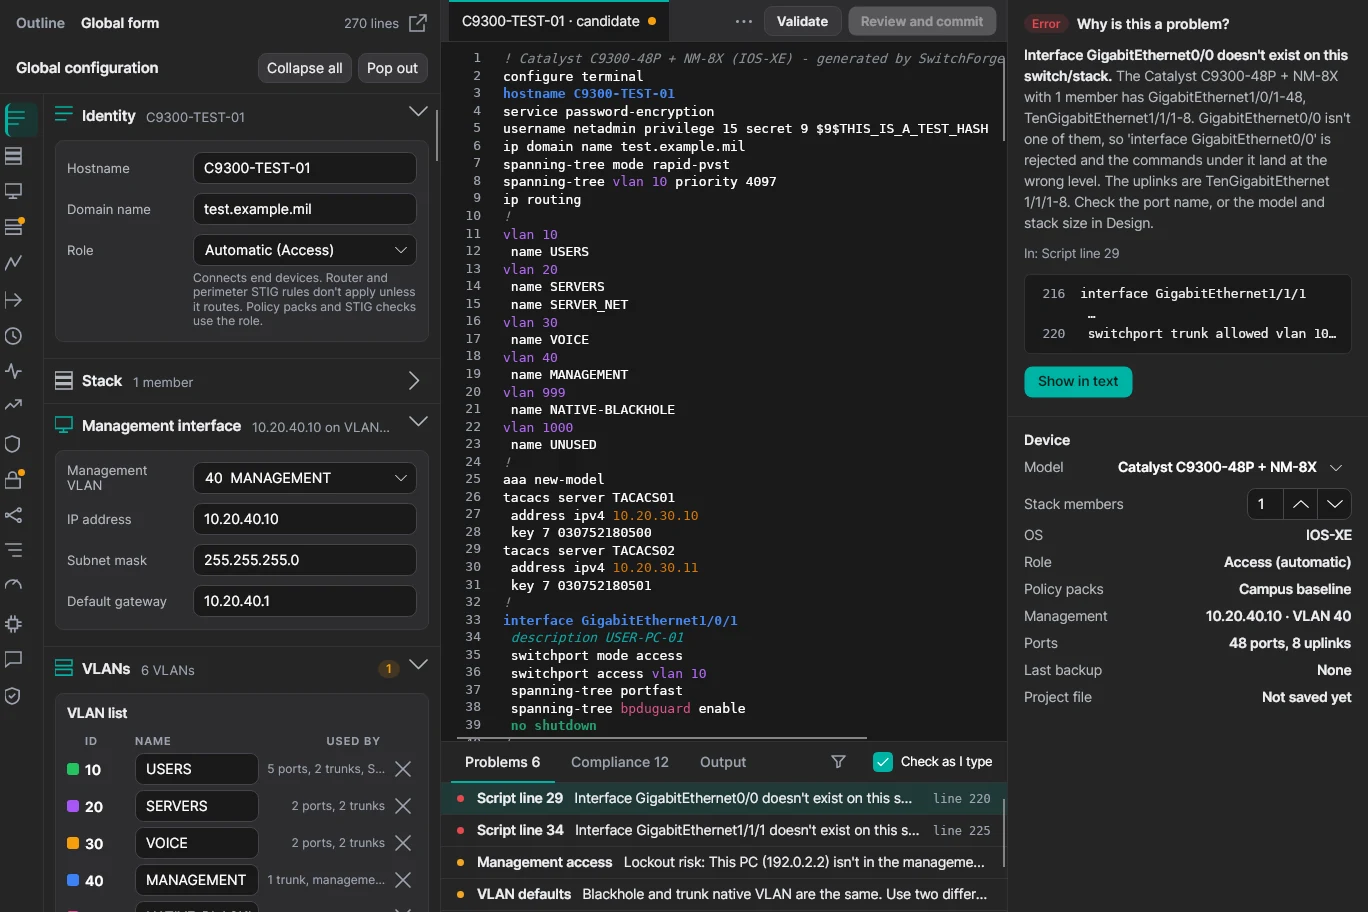
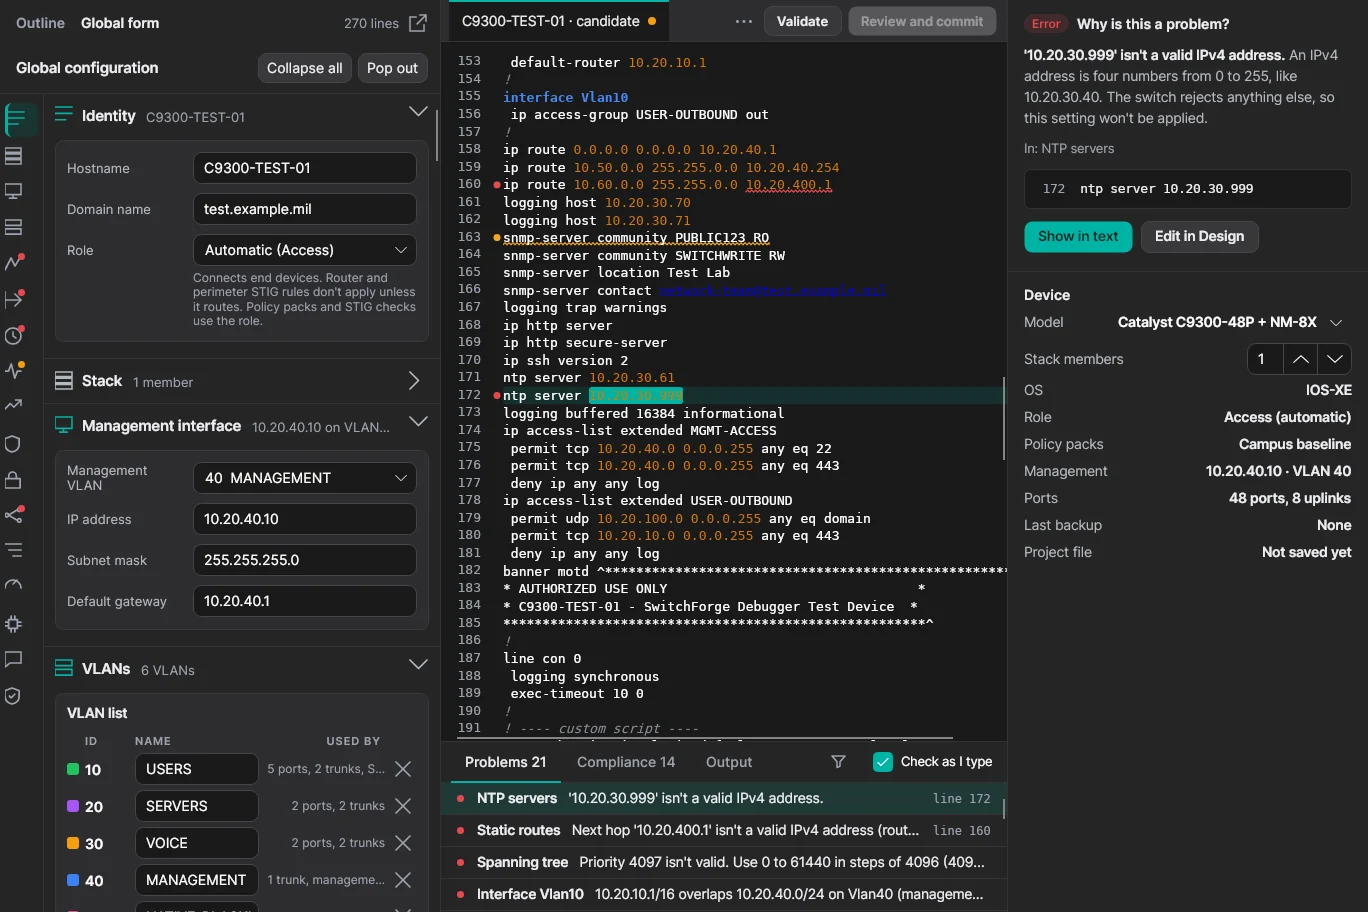
Fix the debugger screenshot and stop browsers showing cached images
The debugger image was an early capture that didn't match its caption;
it now shows the 21 problems with the invalid NTP server explained.
Image links carry ?v=0.7.0 so browsers fetch the new screenshots
instead of the old ones they cached under the same names.

Claude-Session: https://claude.ai/code/session_01Ngcz3p2f2b6Fviu5yrTX37

diff --git a/index.html b/index.html
@@ -308,7 +308,7 @@ footer p{max-width:66ch}
     <figure class="shot-hero reveal">
       <div class="window">
         <div class="bar"><i></i><i></i><i></i><span>Design · ACCESS-SW01 · Catalyst C9300-48P</span></div>
-        <img src="assets/img/design.webp" width="1600" height="930" fetchpriority="high"
+        <img src="assets/img/design.webp?v=0.7.0" width="1600" height="930" fetchpriority="high"
              alt="The Design page. A 48-port Catalyst front panel with ports 1 to 24 selected, a table listing each selected port with its description, mode, VLAN 10 USERS, voice VLAN 20, PoE and BPDU guard, and port settings on the right: access mode, data VLAN 10, voice VLAN 20, PortFast and BPDU guard on, and the config lines for these ports."
              data-cap="Design: ports 1 to 24 selected on the front panel, listed one per row, with their settings on the right and the config lines they produce underneath.">
       </div>
@@ -356,7 +356,7 @@ footer p{max-width:66ch}
         </ul>
       </div>
       <figure class="reveal">
-        <div class="frame"><img src="assets/img/debugger.webp" width="1368" height="912" loading="lazy"
+        <div class="frame"><img src="assets/img/debugger.webp?v=0.7.0" width="1368" height="912" loading="lazy"
           alt="The Configuration page with a test config loaded: the Global form on the left, the config text in the middle, and the debugger underneath listing 21 problems, including an invalid NTP server, an invalid static route next hop, spanning-tree priority 4097 and Vlan10 overlapping the management subnet. On the right, Why is this a problem? explains that 10.20.30.999 isn't a valid IPv4 address, with Show in text and Edit in Design buttons."
           data-cap="A test config full of deliberate mistakes: 21 problems listed under the editor, and the Why? panel explaining the invalid NTP server, with Show in text and Edit in Design."><span class="zoom">Click to enlarge</span></div>
         <figcaption>A test config full of deliberate mistakes, with the reason for the selected one on the right.</figcaption>
@@ -375,7 +375,7 @@ footer p{max-width:66ch}
         </ul>
       </div>
       <figure class="reveal">
-        <div class="frame"><img src="assets/img/routing.webp" width="1080" height="900" loading="lazy"
+        <div class="frame"><img src="assets/img/routing.webp?v=0.7.0" width="1080" height="900" loading="lazy"
           alt="The Global configuration form with its section list on the left, Routing selected and marked OSPF + BGP. The BGP card shows router bgp 65010 with router ID 10.255.0.11, a neighbor 203.0.113.1 in AS 64999 described as ISP-A CIRCUIT 4471 with its password and route-map lines kept, a neighbor 10.255.0.12 in AS 65010 described as EDGE-02 with update source Loopback0 and next-hop-self on, and network 10.31.0.0 mask 255.255.0.0."
           data-cap="BGP on an edge switch: an eBGP neighbor to the ISP and an iBGP peer, with the lines the form doesn't show kept as written."><span class="zoom">Click to enlarge</span></div>
       </figure>
@@ -393,7 +393,7 @@ footer p{max-width:66ch}
         </ul>
       </div>
       <figure class="reveal">
-        <div class="frame"><img src="assets/img/acl.webp" width="1080" height="1000" loading="lazy"
+        <div class="frame"><img src="assets/img/acl.webp?v=0.7.0" width="1080" height="1000" loading="lazy"
           alt="The ACL builder. Extended ACL USERS-IN has a remark, a logged deny ip from 10.0.10.0/24 to 10.0.99.0/24, a permit udp from any to any eq bootps and a permit ip any any, each with a drag handle and arrows. It is applied to interface Vlan10 inbound, with the generated CLI underneath."
           data-cap="ACL builder: extended ACL USERS-IN, applied to Vlan10 inbound, with its generated CLI."><span class="zoom">Click to enlarge</span></div>
       </figure>
@@ -423,13 +423,13 @@ footer p{max-width:66ch}
     </div>
     <div class="duo">
       <figure class="reveal">
-        <div class="frame"><img src="assets/img/commit.webp" width="780" height="840" loading="lazy"
+        <div class="frame"><img src="assets/img/commit.webp?v=0.7.0" width="780" height="840" loading="lazy"
           alt="Commit to ACCESS-SW01: 54 changes in 3 interface blocks. Pre-flight: switch reachable, a warning that ports Gi1/0/45-48 and Te1/1/3-8 will be shut down so make sure none is the uplink, then configuration syntax, no STIG regressions, best practices and golden standards passed. Below are the 10 command lines that will be sent, a change ticket field, and backup, safety net and before/after check options."
           data-cap="Before: only the delta, with the pre-flight checks. A warning flags the ports that will be shut down. You can edit the commands before committing."><span class="zoom">Click to enlarge</span></div>
         <figcaption><b>Before.</b> Only the delta is sent, and the pre-flight warns about ports being shut down.</figcaption>
       </figure>
       <figure class="reveal">
-        <div class="frame"><img src="assets/img/commit-report.webp" width="640" height="680" loading="lazy"
+        <div class="frame"><img src="assets/img/commit-report.webp?v=0.7.0" width="640" height="680" loading="lazy"
           alt="Change deployed and verified on 10.0.99.11 with ticket CHG0042: the pre-checks, 3 commands with a backup first and a reload-in-10 safety net, and every post-check passed, from still reachable to spanning-tree root unchanged."
           data-cap="After: the deployment record, ready for the change ticket."><span class="zoom">Click to enlarge</span></div>
         <figcaption><b>After.</b> The record for the change ticket, exportable as HTML.</figcaption>
@@ -465,7 +465,7 @@ footer p{max-width:66ch}
         </ul>
       </div>
       <figure class="reveal">
-        <div class="frame"><img src="assets/img/stig.webp" width="1368" height="912" loading="lazy"
+        <div class="frame"><img src="assets/img/stig.webp?v=0.7.0" width="1368" height="912" loading="lazy"
           alt="The Compliance page's STIG tab with the Cisco IOS XE Switch L2S STIG V3R2 checking ACCESS-SW01: CAT I open 1, CAT II open 7, CAT III open 2, not a finding 10, needs manual review 1. Rule CISC-L2-000020 (V-220649, 802.1X) is open because 802.1X/MAB isn't configured; the evidence shows the interface lines, and the fix is Turn on 802.1X with MAB fallback. Export .cklb, POA&amp;M, Fix all open and Check fleet buttons sit at the top."
           data-cap="The STIG tab: open findings by category, rule V-220649 open with the config lines behind it, and its fix."><span class="zoom">Click to enlarge</span></div>
         <figcaption>Rule V-220649 is open, with the evidence that goes into the checklist and its fix.</figcaption>
@@ -483,7 +483,7 @@ footer p{max-width:66ch}
         </ul>
       </div>
       <figure class="reveal">
-        <div class="frame light"><img src="assets/img/report-stig.webp" width="820" height="900" loading="lazy"
+        <div class="frame light"><img src="assets/img/report-stig.webp?v=0.7.0" width="820" height="900" loading="lazy"
           alt="An HTML STIG report for ACCESS-SW01 with a CUI banner, a summary table (1 CAT I, 10 CAT II and 1 CAT III open, 8 not a finding, 40% compliance) and the open findings with their CCIs and configuration evidence."
           data-cap="The STIG report for ACCESS-SW01: banner, summary with the compliance score, and each open finding with its evidence."><span class="zoom">Click to enlarge</span></div>
       </figure>
@@ -523,7 +523,7 @@ footer p{max-width:66ch}
         </ul>
       </div>
       <figure class="reveal">
-        <div class="frame"><img src="assets/img/home.webp" width="1368" height="912" loading="lazy"
+        <div class="frame"><img src="assets/img/home.webp?v=0.7.0" width="1368" height="912" loading="lazy"
           alt="The Home page: 9 of 10 switches reachable with ACCESS-SW05 unreachable, 83% STIG compliance with 6 of 10 switches compliant, 2 open CAT I findings on 2 switches, 1 switch changed since known-good, and 10 backups in the last 24 hours with 1 failed. Needs attention lists ACCESS-SW05 (backup failed), ACCESS-SW01 and ACCESS-SW04 (open STIG rules) and DIST-SW02 (drifted). On the right, compliance by severity and recent projects; below, recent activity."
           data-cap="Home: 10 switches at a glance, and the 4 that need attention, each with the reason."><span class="zoom">Click to enlarge</span></div>
       </figure>
@@ -542,7 +542,7 @@ footer p{max-width:66ch}
         </ul>
       </div>
       <figure class="reveal">
-        <div class="frame"><img src="assets/img/fleet.webp" width="1368" height="912" loading="lazy"
+        <div class="frame"><img src="assets/img/fleet.webp?v=0.7.0" width="1368" height="912" loading="lazy"
           alt="The Fleet board: 10 switches, 6 compliant, 1 drifted, 2 non-compliant and 1 unreachable, checked against 1 STIG and 1 policy pack. Each switch is listed with its model, IOS release, reachability, STIG score, drift, last backup and the reason, from Backup failed: No reply on port 22 to No open findings and no drift."
           data-cap="Fleet board: 10 switches, each with its state and the reason for it."><span class="zoom">Click to enlarge</span></div>
       </figure>
@@ -561,7 +561,7 @@ footer p{max-width:66ch}
         </ul>
       </div>
       <figure class="reveal">
-        <div class="frame"><img src="assets/img/whatchanged.webp" width="1368" height="912" loading="lazy"
+        <div class="frame"><img src="assets/img/whatchanged.webp?v=0.7.0" width="1368" height="912" loading="lazy"
           alt="The Backups page for DIST-SW02: a scheduled backup from 2026-10-13 and a known-good backup from 2026-10-06. What changed lists 4 changes, 1 touching security: an SNMP community was added (its value masked), VLAN 77 TEMP-VENDOR was added, and an NTP server was replaced. Below that is the line-by-line diff with added lines in green and removed lines in red."
           data-cap="What changed on DIST-SW02 since its known-good backup: security first, then grouped changes and the line-by-line diff."><span class="zoom">Click to enlarge</span></div>
       </figure>
@@ -580,7 +580,7 @@ footer p{max-width:66ch}
         </ul>
       </div>
       <figure class="reveal">
-        <div class="frame"><img src="assets/img/versions.webp" width="1368" height="912" loading="lazy"
+        <div class="frame"><img src="assets/img/versions.webp?v=0.7.0" width="1368" height="912" loading="lazy"
           alt="The Versions page: 10 switches, 6 with advisories, 3 at end of sale or support. ACCESS-SW01 on IOS XE 17.9.3 is marked Affected by the critical web UI advisory because its config turns on the web UI, and its release is past support."
           data-cap="Versions: ACCESS-SW01 is affected by the web UI advisory because its config turns on ip http server."><span class="zoom">Click to enlarge</span></div>
       </figure>
@@ -599,7 +599,7 @@ footer p{max-width:66ch}
         </ul>
       </div>
       <figure class="reveal">
-        <div class="frame"><img src="assets/img/topology.webp" width="1545" height="610" loading="lazy"
+        <div class="frame"><img src="assets/img/topology.webp?v=0.7.0" width="1545" height="610" loading="lazy"
           alt="The Topology map: CORE-SW01, CORE-SW02 and WAN-RTR01 in the core layer, DIST-SW01 and DIST-SW02 in distribution, and five access switches below, linked by blue trunk lines and purple routed lines labelled with port names. ACCESS-SW05 has a dashed red border because it couldn't be read, and ACCESS-SW01 and ACCESS-SW02 carry endpoint badges."
           data-cap="Topology: core, distribution and access layers, with trunks in blue, routed links in purple, and a switch that couldn't be read outlined in red."><span class="zoom">Click to enlarge</span></div>
       </figure>
